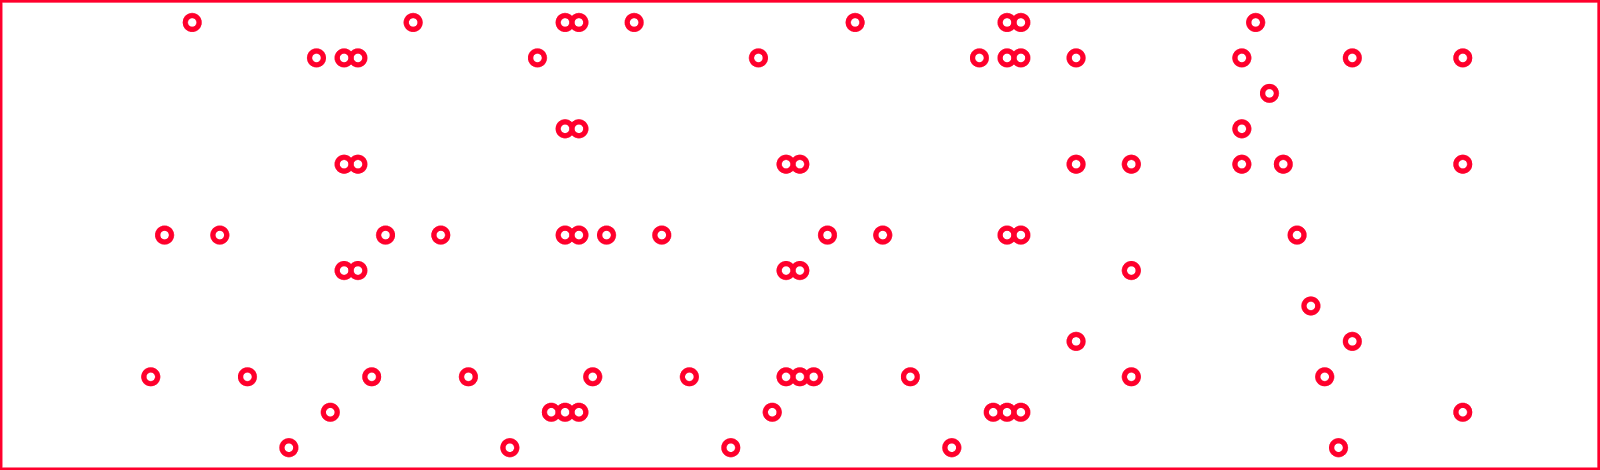
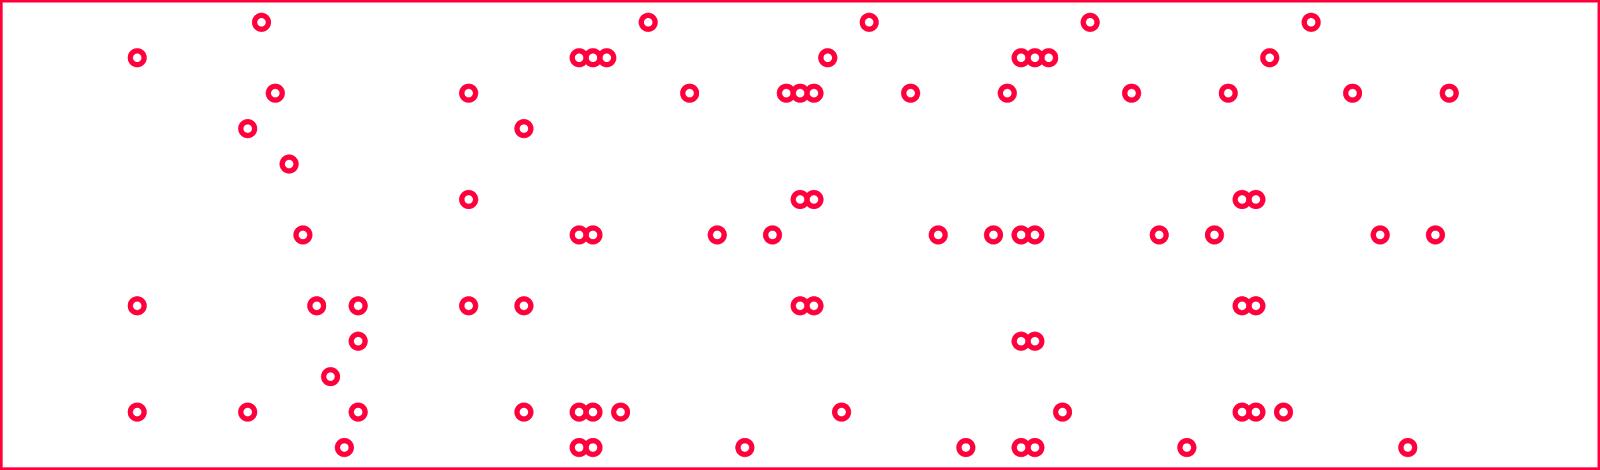
deleted overall and overhauled software

diff --git a/software.html b/software.html
@@ -42,21 +42,24 @@
 										In order to store the songs in mechanical memory, specifically a song sheet that marbles can drop into, we need a program that can automatically turn a MIDI file into a song sheet of appropriate proportions that can fed into the machine. Without a good program, we would be stuck manually adding holes to a song sheet for hours, most likely with a high degree of human error.
 										So, using the python libraries <a href="https://mido.readthedocs.io/en/latest/">MIDO</a> and <a href="https://pythonhosted.org/svgwrite/">svgwrite</a>, we designed a program to go through a desired midi file and generate an SVG file with hole placement corresponding to the notes of the song.
 
+
 										<header>
 											<h2>Honey Comb:</h2>
 										</header>
+										<br>
+										<img src="images/soft2.png" alt="" height = "500" align = "right"/>
+										<img src="images/soft1.png" alt="" width = "450" align = "right"/>
 
 										Initially, the logical way to encode notes into the sheet is to have one hole slot per note. Every time a note gets played in the song, a corresponding hole is put in the cutsheet. This is helpful, but suppose we want to play a song on a full octave, 13 notes, and we want to play a minute, feasibly 100 notes. That makes the length of the song sheet over 10 times the width and with ¼ inch marbles 25 inches long (not including any margins we would want on the sheet). That is already longer than a full sheet that would fit onto a laser cutter bed. So we have too much length on the song sheet to a small amount of width.
-										To resolve this problem we cut holes in a honeycomb pattern as shown below. With this design we have two holes per note which works better with the thickness of our pipes. This doubles the width of the sheet while cutting the length in half.
+										To resolve this problem we cut holes in a honeycomb pattern as shown below. With this design we have two holes per note which works better with the thickness of our pipes.
+										This doubles the width of the sheet while cutting the length in half. The two images below show the differing proportions of the two options over the same tune, with the left generated in a normal structure
+										 and the right generated in a honeycomb pattern.
 										<br>
-										<img src="images/soft2.png" alt="" height = "700"/>
-										<img src="images/soft1.png" alt="" width = "600"/>
-
-
 
 										<header>
 											<h2>Considerations:</h2>
 										</header>
+										<br>
 
 										This program needs to integrate flawlessly with a mechanical system with parameters stored elsewhere, so we needed to account for:
 										<li>Hole Size</li>
@@ -68,19 +71,29 @@
 										<li>Note Range</li>
 										<li>Number of Notes to Include</li>
 										<li>Placement of Notes</li>
+										<br>
+										If you want to explore more of our documented MIDI code and see how we account for all of these variables, checkout the github repo <a href="https://github.com/natesampo/DropTheBeat/tree/master/writeToSVG">here</a>.
+										<br>
 
-										Here is an excerpt from Ode to Joy without a honeycomb pattern and a 5 note range.
-										<span class="image main">><img src="images/soft3.png" alt="" /></span>
-										Here is Megalovania with a honeycomb pattern and  a full octave range.
-										<span class="image main">><img src="images/soft4.png" alt="" /></span>
-										Finally here is a cut out sheet with the racks added on the sides.
-										<span class="image main">><img src="images/soft5.png" alt="" /></span>
+										<header>
+											<h3>Here is an excerpt from  Megalovania with a honeycomb pattern and  a full octave range, Ode to Joy without a honeycomb pattern and a 5 note range, and  cut out sheet with the racks added on the sides.</h3>
+										</header>
+										<br>
 
-										If you want to explore more of our MIDI code, checkout the github repo <a href="https://github.com/natesampo/DropTheBeat/tree/master/writeToSVG">here</a>.
+										<img src="images/soft4.png" alt="" height = "300" align= "top" />
+										<!-- <span class="image main"><img src="images/soft4.png" alt="" /></span> -->
+
+										<img src="images/soft3.png" alt="" height = "300" align= "top" />
+										<!-- <span class="image main"><img src="images/soft3.png" alt="" /></span> -->
+
+										<img src="images/soft5.png" alt="" height = "300" align= "top" />
+										<!-- <span class="image main"><img src="images/soft5.png" alt="" /></span> -->
+										<br>
 
 
-
-										Stepper Code:
+										<header>
+											<h2>Stepper Code:</h2>
+										</header>
 										The control for the stepper and DC motors was trivial. We used a transistor along with analog output from the arduino to control the DC motor. For the stepper we imported a stepper library
 										 found <a href="http://www.airspayce.com/mikem/arduino/AccelStepper/">here</a> to send input to the motor drivers to modulate speed. The code we used can be found <a href="https://github.com/natesampo/DropTheBeat/tree/master/stepperDRV">here</a>.
 
@@ -110,7 +123,6 @@
 											<li>
 												<span class="opener">Design</span>
 												<ul>
-													<li><a href="overall.html">Overall</a></li>
 													<li><a href="mechanical.html">Mechanical</a></li>
 													<li><a href="electrical.html">Electrical</a></li>
 													<li><a href="software.html">Software</a></li>

diff --git a/overall.html b/overall.html
@@ -79,7 +79,7 @@ As you can see our device is not much yet, with only 2 notes and a slow servo mo
 											<li>
 												<span class="opener">Design</span>
 												<ul>
-													<li><a href="overall.html">Overall</a></li>
+
 													<li><a href="mechanical.html">Mechanical</a></li>
 													<li><a href="electrical.html">Electrical</a></li>
 													<li><a href="software.html">Software</a></li>

diff --git a/sprint3.html b/sprint3.html
@@ -104,7 +104,6 @@ Additionally, the mechanism to reroute marbles to the top was non-functional for
 											<li>
 												<span class="opener">Design</span>
 												<ul>
-													<li><a href="overall.html">Overall</a></li>
 													<li><a href="mechanical.html">Mechanical</a></li>
 													<li><a href="electrical.html">Electrical</a></li>
 													<li><a href="software.html">Software</a></li>

diff --git a/sprint4.html b/sprint4.html
@@ -106,7 +106,6 @@ Despite the problems with the final project, the whole process was good learning
 											<li>
 												<span class="opener">Design</span>
 												<ul>
-													<li><a href="overall.html">Overall</a></li>
 													<li><a href="mechanical.html">Mechanical</a></li>
 													<li><a href="electrical.html">Electrical</a></li>
 													<li><a href="software.html">Software</a></li>

diff --git a/sprint1.html b/sprint1.html
@@ -78,7 +78,6 @@ As you can see our device is not much yet, with only 2 notes and a slow servo mo
 											<li>
 												<span class="opener">Design</span>
 												<ul>
-													<li><a href="overall.html">Overall</a></li>
 													<li><a href="mechanical.html">Mechanical</a></li>
 													<li><a href="electrical.html">Electrical</a></li>
 													<li><a href="software.html">Software</a></li>

diff --git a/sprint2.html b/sprint2.html
@@ -96,7 +96,6 @@ Well, this was the intention of each mechanism. As in life, things do not always
 											<li>
 												<span class="opener">Design</span>
 												<ul>
-													<li><a href="overall.html">Overall</a></li>
 													<li><a href="mechanical.html">Mechanical</a></li>
 													<li><a href="electrical.html">Electrical</a></li>
 													<li><a href="software.html">Software</a></li>

diff --git a/design.html b/design.html
@@ -217,7 +217,6 @@ Despite the problems with the final project, the whole process was good learning
 										<li>
 											<span class="opener">Design</span>
 											<ul>
-												<li><a href="overall.html">Overall</a></li>
 												<li><a href="mechanical.html">Mechanical</a></li>
 												<li><a href="electrical.html">Electrical</a></li>
 												<li><a href="software.html">Software</a></li>

diff --git a/budget.html b/budget.html
@@ -168,7 +168,6 @@
 											<li>
 												<span class="opener">Design</span>
 												<ul>
-													<li><a href="overall.html">Overall</a></li>
 													<li><a href="mechanical.html">Mechanical</a></li>
 													<li><a href="electrical.html">Electrical</a></li>
 													<li><a href="software.html">Software</a></li>

diff --git a/homepage.html b/homepage.html
@@ -171,7 +171,6 @@
 											<li>
 												<span class="opener">Design</span>
 												<ul>
-													<li><a href="overall.html">Overall</a></li>
 													<li><a href="mechanical.html">Mechanical</a></li>
 													<li><a href="electrical.html">Electrical</a></li>
 													<li><a href="software.html">Software</a></li>

diff --git a/mechanical.html b/mechanical.html
@@ -101,7 +101,6 @@
 											<li>
 												<span class="opener">Design</span>
 												<ul>
-													<li><a href="overall.html">Overall</a></li>
 													<li><a href="mechanical.html">Mechanical</a></li>
 													<li><a href="electrical.html">Electrical</a></li>
 													<li><a href="software.html">Software</a></li>

diff --git a/electrical.html b/electrical.html
@@ -98,7 +98,6 @@
 											<li>
 												<span class="opener">Design</span>
 												<ul>
-													<li><a href="overall.html">Overall</a></li>
 													<li><a href="mechanical.html">Mechanical</a></li>
 													<li><a href="electrical.html">Electrical</a></li>
 													<li><a href="software.html">Software</a></li>

diff --git a/team.html b/team.html
@@ -76,7 +76,6 @@
 											<li>
 												<span class="opener">Design</span>
 												<ul>
-													<li><a href="overall.html">Overall</a></li>
 													<li><a href="mechanical.html">Mechanical</a></li>
 													<li><a href="electrical.html">Electrical</a></li>
 													<li><a href="software.html">Software</a></li>
